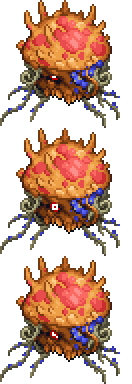
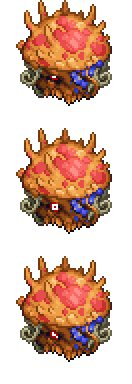
+ Roots

diff --git a/_Unofficial/Content/Unimush/MushroomMadness.cs b/_Unofficial/Content/Unimush/MushroomMadness.cs
@@ -27,6 +27,7 @@ namespace AAModClassic._Unofficial.Content.Unimush
         internal static Asset<Texture2D> Jaw;
         internal static Asset<Texture2D> Jaw_Back;
         internal static Asset<Texture2D> Tendril;
+        internal static Asset<Texture2D> Roots;
 
         public override void SetStaticDefaults()
         {
@@ -36,6 +37,7 @@ namespace AAModClassic._Unofficial.Content.Unimush
                 Jaw = ModContent.Request<Texture2D>(path + "MushroomMadness_Jaw");
                 Jaw_Back = ModContent.Request<Texture2D>(path + "MushroomMadness_Jaw_Back");
                 Tendril = ModContent.Request<Texture2D>(path + "MushroomMadness_Tendril");
+                Roots = ModContent.Request<Texture2D>(path + "MushroomMadness_Roots");
             }
         }
 
@@ -318,7 +320,7 @@ namespace AAModClassic._Unofficial.Content.Unimush
                     jawY += jawOff.Y;
 
                     drawOffset = Main.rand.NextVector2Circular(4f, 4f) * ease;
-                    if (NPC.ai[1] > 16)
+                    if (NPC.ai[1] > 24)
                         FrameY = 2;
                 }
                 else if(NPC.ai[1] < 90)
@@ -396,6 +398,47 @@ namespace AAModClassic._Unofficial.Content.Unimush
             if (Tendrils != null)
                 for (int i = 0; i < Tendrils.Length; i++)
                     Tendrils[i].Draw(spriteBatch, screenPos, i);
+
+            for (int i = 0; i < 4; i++)
+            {
+                Vector2 drawPos = NPC.Center + i switch
+                {
+                    0 => new Vector2(30, 15),
+                    1 => new Vector2(10, 30),
+                    2 => new Vector2(-30, 15),
+                    3 => new Vector2(-10, 30),
+                    _ => Vector2.Zero
+                } * NPC.scale;
+
+                Rectangle frame = Roots.Frame(1, 4, 0, i);
+                SpriteEffects effects = i > 1 ? SpriteEffects.FlipHorizontally : SpriteEffects.None;
+                Vector2 origin = i > 1 ? new Vector2(frame.Width, 0) : Vector2.Zero;
+
+                float sensitivity = 0.3f;
+                float velocityRotationContribution = (NPC.velocity.Y * 0.5f) / (1f + MathF.Abs(NPC.velocity.Y) * sensitivity);
+
+                float rotationOffset = i switch
+                {
+                    0 => -(MathHelper.PiOver4 / 4f + velocityRotationContribution),
+                    1 => -(MathHelper.PiOver4 / 4f + velocityRotationContribution),
+                    2 => MathHelper.PiOver4 / 4f + velocityRotationContribution,
+                    3 => MathHelper.PiOver4 / 4f + velocityRotationContribution,
+                    _ => MathHelper.PiOver2
+                };
+
+                float waveSpeed = i switch
+                {
+                    0 => 1.2f,
+                    1 => 2.8f,
+                    2 => 2.2f,
+                    _ => 1.7f
+                };
+
+                float wave = MathF.Sin(Main.GlobalTimeWrappedHourly * waveSpeed);
+                float baseWaveMult = i % 2 == 0 ? -0.15f : 0.15f;
+
+                spriteBatch.Draw(Roots.Value, drawPos - screenPos, frame, drawColor, NPC.rotation + rotationOffset + wave * baseWaveMult, origin, NPC.scale, effects, 0);
+            }
 
             Vector2 mouthPos = NPC.Center + new Vector2(0, 32) * NPC.scale;
             Vector2 jawPos = NPC.Center + drawOffset + new Vector2(jawX, jawY) * NPC.scale;
